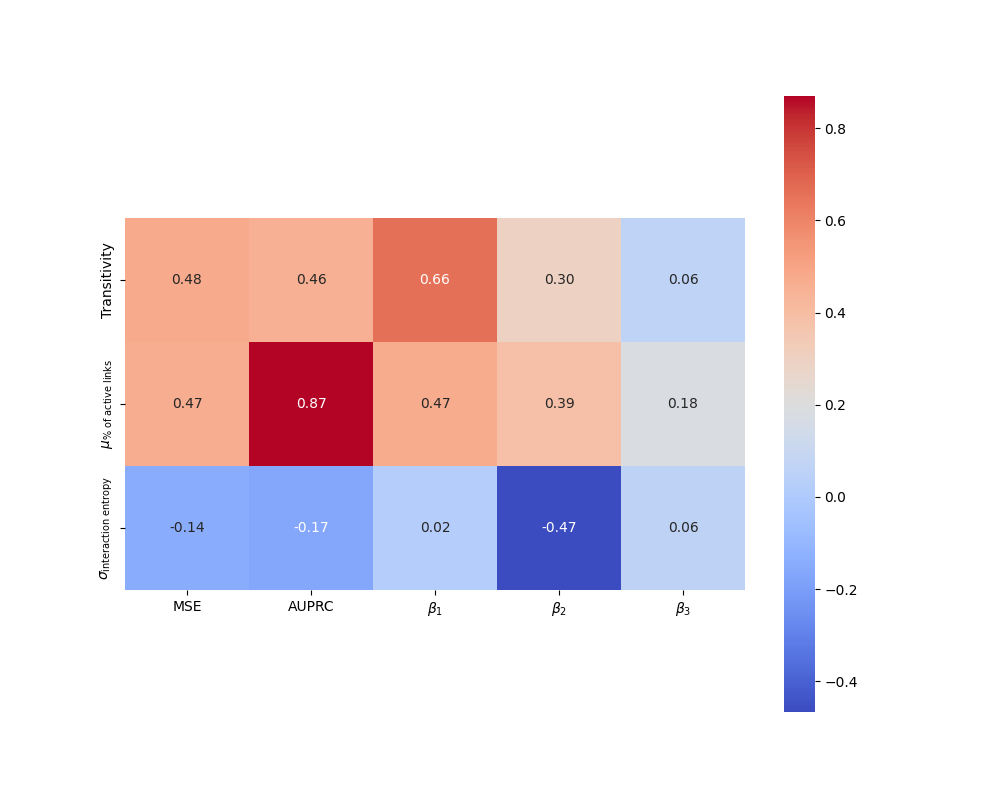
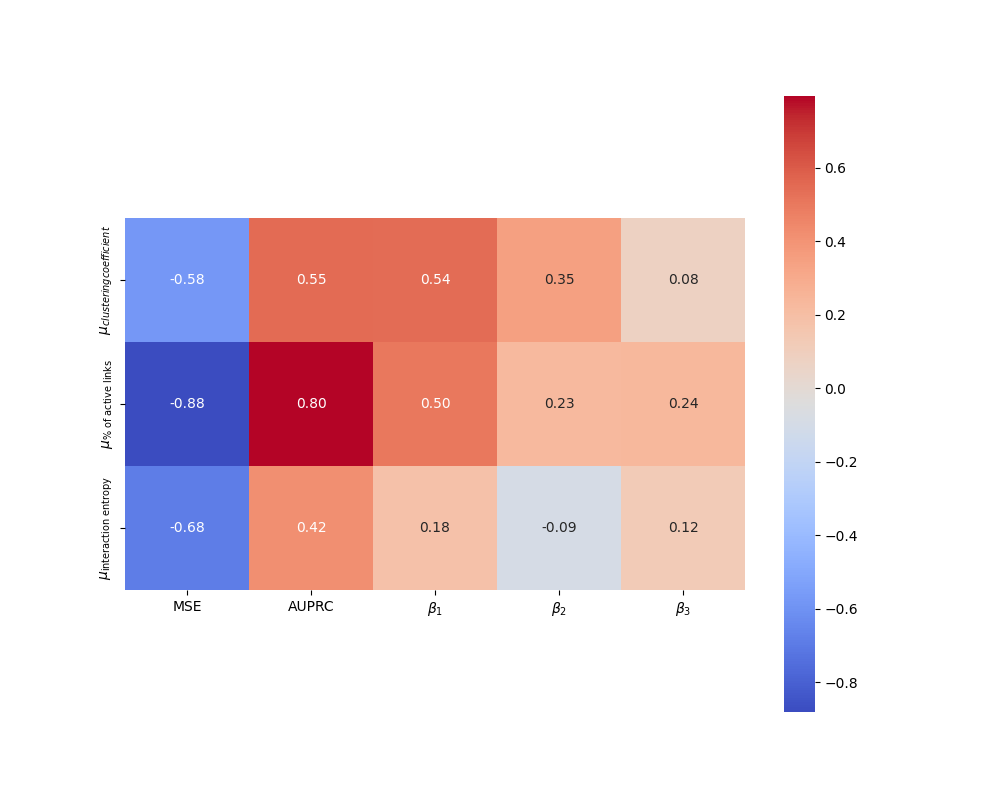
tmp solution

diff --git a/results_analysis.py b/results_analysis.py
@@ -250,13 +250,15 @@ def autocorrelate_table(data_csv_names, dataset_properties_csv_name):
 
     df = pd.merge(df, df_properties, on=['Dataset name', 'delta_t'])
 
+    df['SCDModel MSE'] = df['SCDModel MSE'] / (df["average_edge_weight"] ** 2)
+
     # Select only the columns of interest
-    properties = ['transitivity', 'average_percentage_of_links_per_snapshot', 'std_weighted_interaction_entropy']
+    properties = ['average_clustering', 'average_percentage_of_links_per_snapshot', 'average_weighted_interaction_entropy']
     scd_betas = ["SCDModel MSE", "SCDModel AUPRC", 'SCDModel coef 1', 'SCDModel coef 2', 'SCDModel coef 3']
     df_subset = df[properties + scd_betas]
 
     # Calculate the correlation matrix for the selected columns
-    correlations = df_subset.corr(method='pearson')
+    correlations = df_subset.corr(method='spearman')
 
     # Filter the correlation matrix for SCD and SCDO separately
     correlations_scd = correlations.loc[properties, scd_betas]
@@ -264,9 +266,9 @@ def autocorrelate_table(data_csv_names, dataset_properties_csv_name):
     # Rename columns and rows for LaTeX-style formatting
     correlations_scd.columns = [ 'MSE', 'AUPRC', r'$\beta_1$', r'$\beta_2$', r'$\beta_3$']
     correlations_scd.index = [
-        'Transitivity',
+        r'$\mu_{clustering coefficient}$',
         r'$\mu_{\% \text{ of active links}}$',
-        r'$\sigma_{\text{interaction entropy}}$'
+        r'$\mu_{\text{interaction entropy}}$'
     ]
 
     # Plot correlation heatmap for SCD betas
@@ -276,5 +278,31 @@ def autocorrelate_table(data_csv_names, dataset_properties_csv_name):
     plt.show()
 
 
+# plot scatterplot of average link weight to mse
+def plot_scatterplot_weight_to_mse(data_csv_name, dataset_properties_csv_name):
+    # Load the CSV files
+    df = pd.read_csv(data_csv_name)
+    df_properties = pd.read_csv(dataset_properties_csv_name)
+
+    # Merge the two dataframes on 'Dataset name' and 'delta_t'
+    df = pd.merge(df, df_properties, on=['Dataset name', 'delta_t'])
+
+    df['SCDModel MSE'] = df['SCDModel MSE'] / (df["average_edge_weight"] ** 2)
+
+    # fit a line to the data
+    sns.lmplot(data=df, x='average_edge_weight', y='SCDModel MSE', height=6.5, aspect=1.5)
+
+    # Plot a scatterplot of average edge weight vs. SCDModel MSE
+    sns.scatterplot(data=df, x='average_edge_weight', y='SCDModel MSE')
+
+    plt.xlabel('Average Edge Weight')
+    plt.ylabel('Normalized SCDModel MSE')
+    plt.savefig('results/plots/weight_vs_mse_normalized.png')
+    plt.show()
+
+
+
 autocorrelate_table(['results/best_results_grid.csv'],
                         'results/aggregated_properties.csv')
+
+# plot_scatterplot_weight_to_mse('results/best_results_grid.csv', 'results/aggregated_properties.csv')

diff --git a/aggregated_properties.py b/aggregated_properties.py
@@ -27,6 +27,8 @@ def get_aggregated_properties(matrix, global_G, dataset_name, delta_t, output_fi
     edges_per_snapshot = np.count_nonzero(matrix, axis=0)  # Count of active edges per snapshot
     interactions_per_snapshot = matrix.sum(axis=0)  # Total interactions (edge weights) per snapshot
 
+    average_edge_weight = np.mean(interactions_per_snapshot / len(global_G.edges_list))
+
     # Calculate averages and standard deviations
     avg_edges_per_snapshot = np.mean(edges_per_snapshot / all_edges)  # Percentage of edges per snapshot
     std_edges_per_snapshot = np.std(edges_per_snapshot / all_edges)
@@ -49,10 +51,10 @@ def get_aggregated_properties(matrix, global_G, dataset_name, delta_t, output_fi
         edges = [global_G.edges_list[j] for j in indices]
         G = nx.Graph()
         G.add_edges_from(edges)
-        clustering_per_snapshot[i] = nx.average_clustering(G)
+        clustering_per_snapshot[i] = nx.average_clustering(G, weight='weight')
         transitivity_per_snapshot[i] = nx.transitivity(G)
+
     avg_clustering = np.mean(clustering_per_snapshot)
-    avg_transitivity = np.mean(transitivity_per_snapshot)
 
     # Create result dictionary (without total_number_interactions)
     results = {
@@ -63,8 +65,8 @@ def get_aggregated_properties(matrix, global_G, dataset_name, delta_t, output_fi
         "std_percentage_of_links_per_snapshot": round(std_edges_per_snapshot * 100, 2),
         "average_weighted_interaction_entropy": round(avg_weighted_interaction_entropy * 100, 2),
         "std_weighted_interaction_entropy": round(std_weighted_interaction_entropy * 100, 2),
+        "average_edge_weight": average_edge_weight,
         "average_clustering": avg_clustering,
-        "transitivity": avg_transitivity,
     }
 
     # Write the data to a CSV file
@@ -86,7 +88,7 @@ def write_to_csv(output_file, results):
         fieldnames = ["Dataset name", "delta_t", "total_number_snapshots",
                       "average_percentage_of_links_per_snapshot", "std_percentage_of_links_per_snapshot",
                       "average_weighted_interaction_entropy", "std_weighted_interaction_entropy",
-                      "transitivity", "average_clustering"]
+                      "average_clustering", "average_edge_weight"]
 
         writer = csv.DictWriter(csvfile, fieldnames=fieldnames)
 
